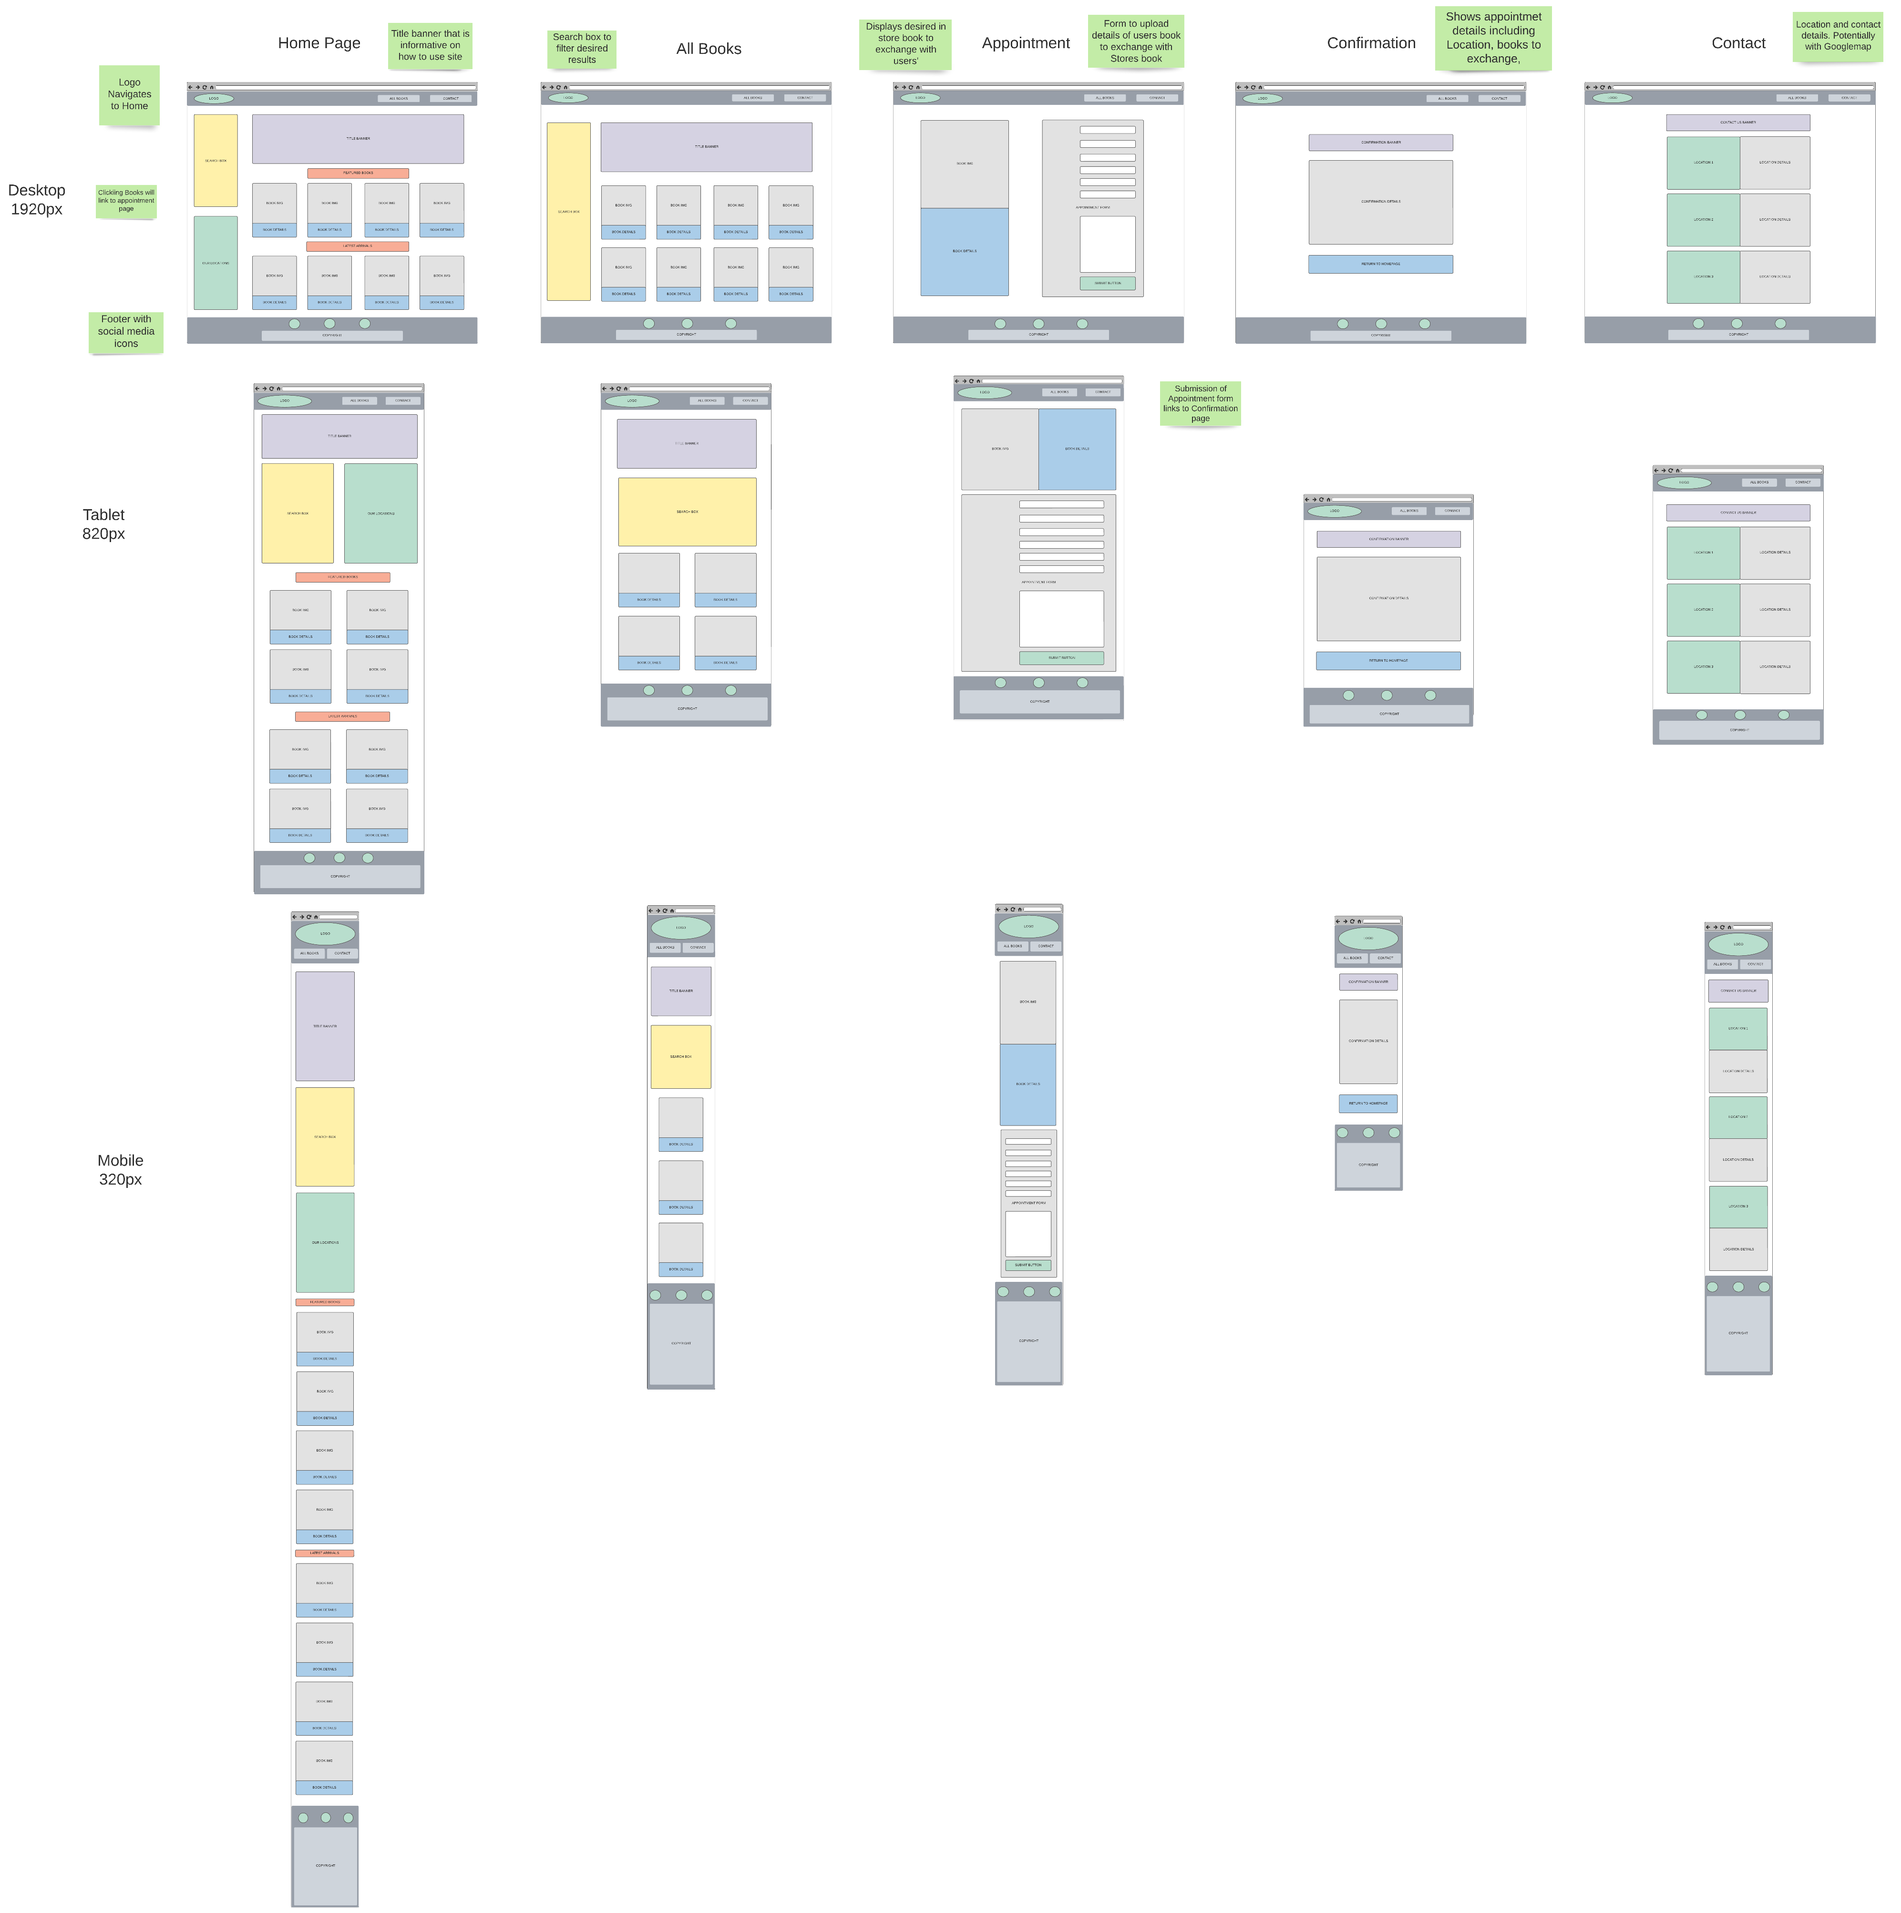
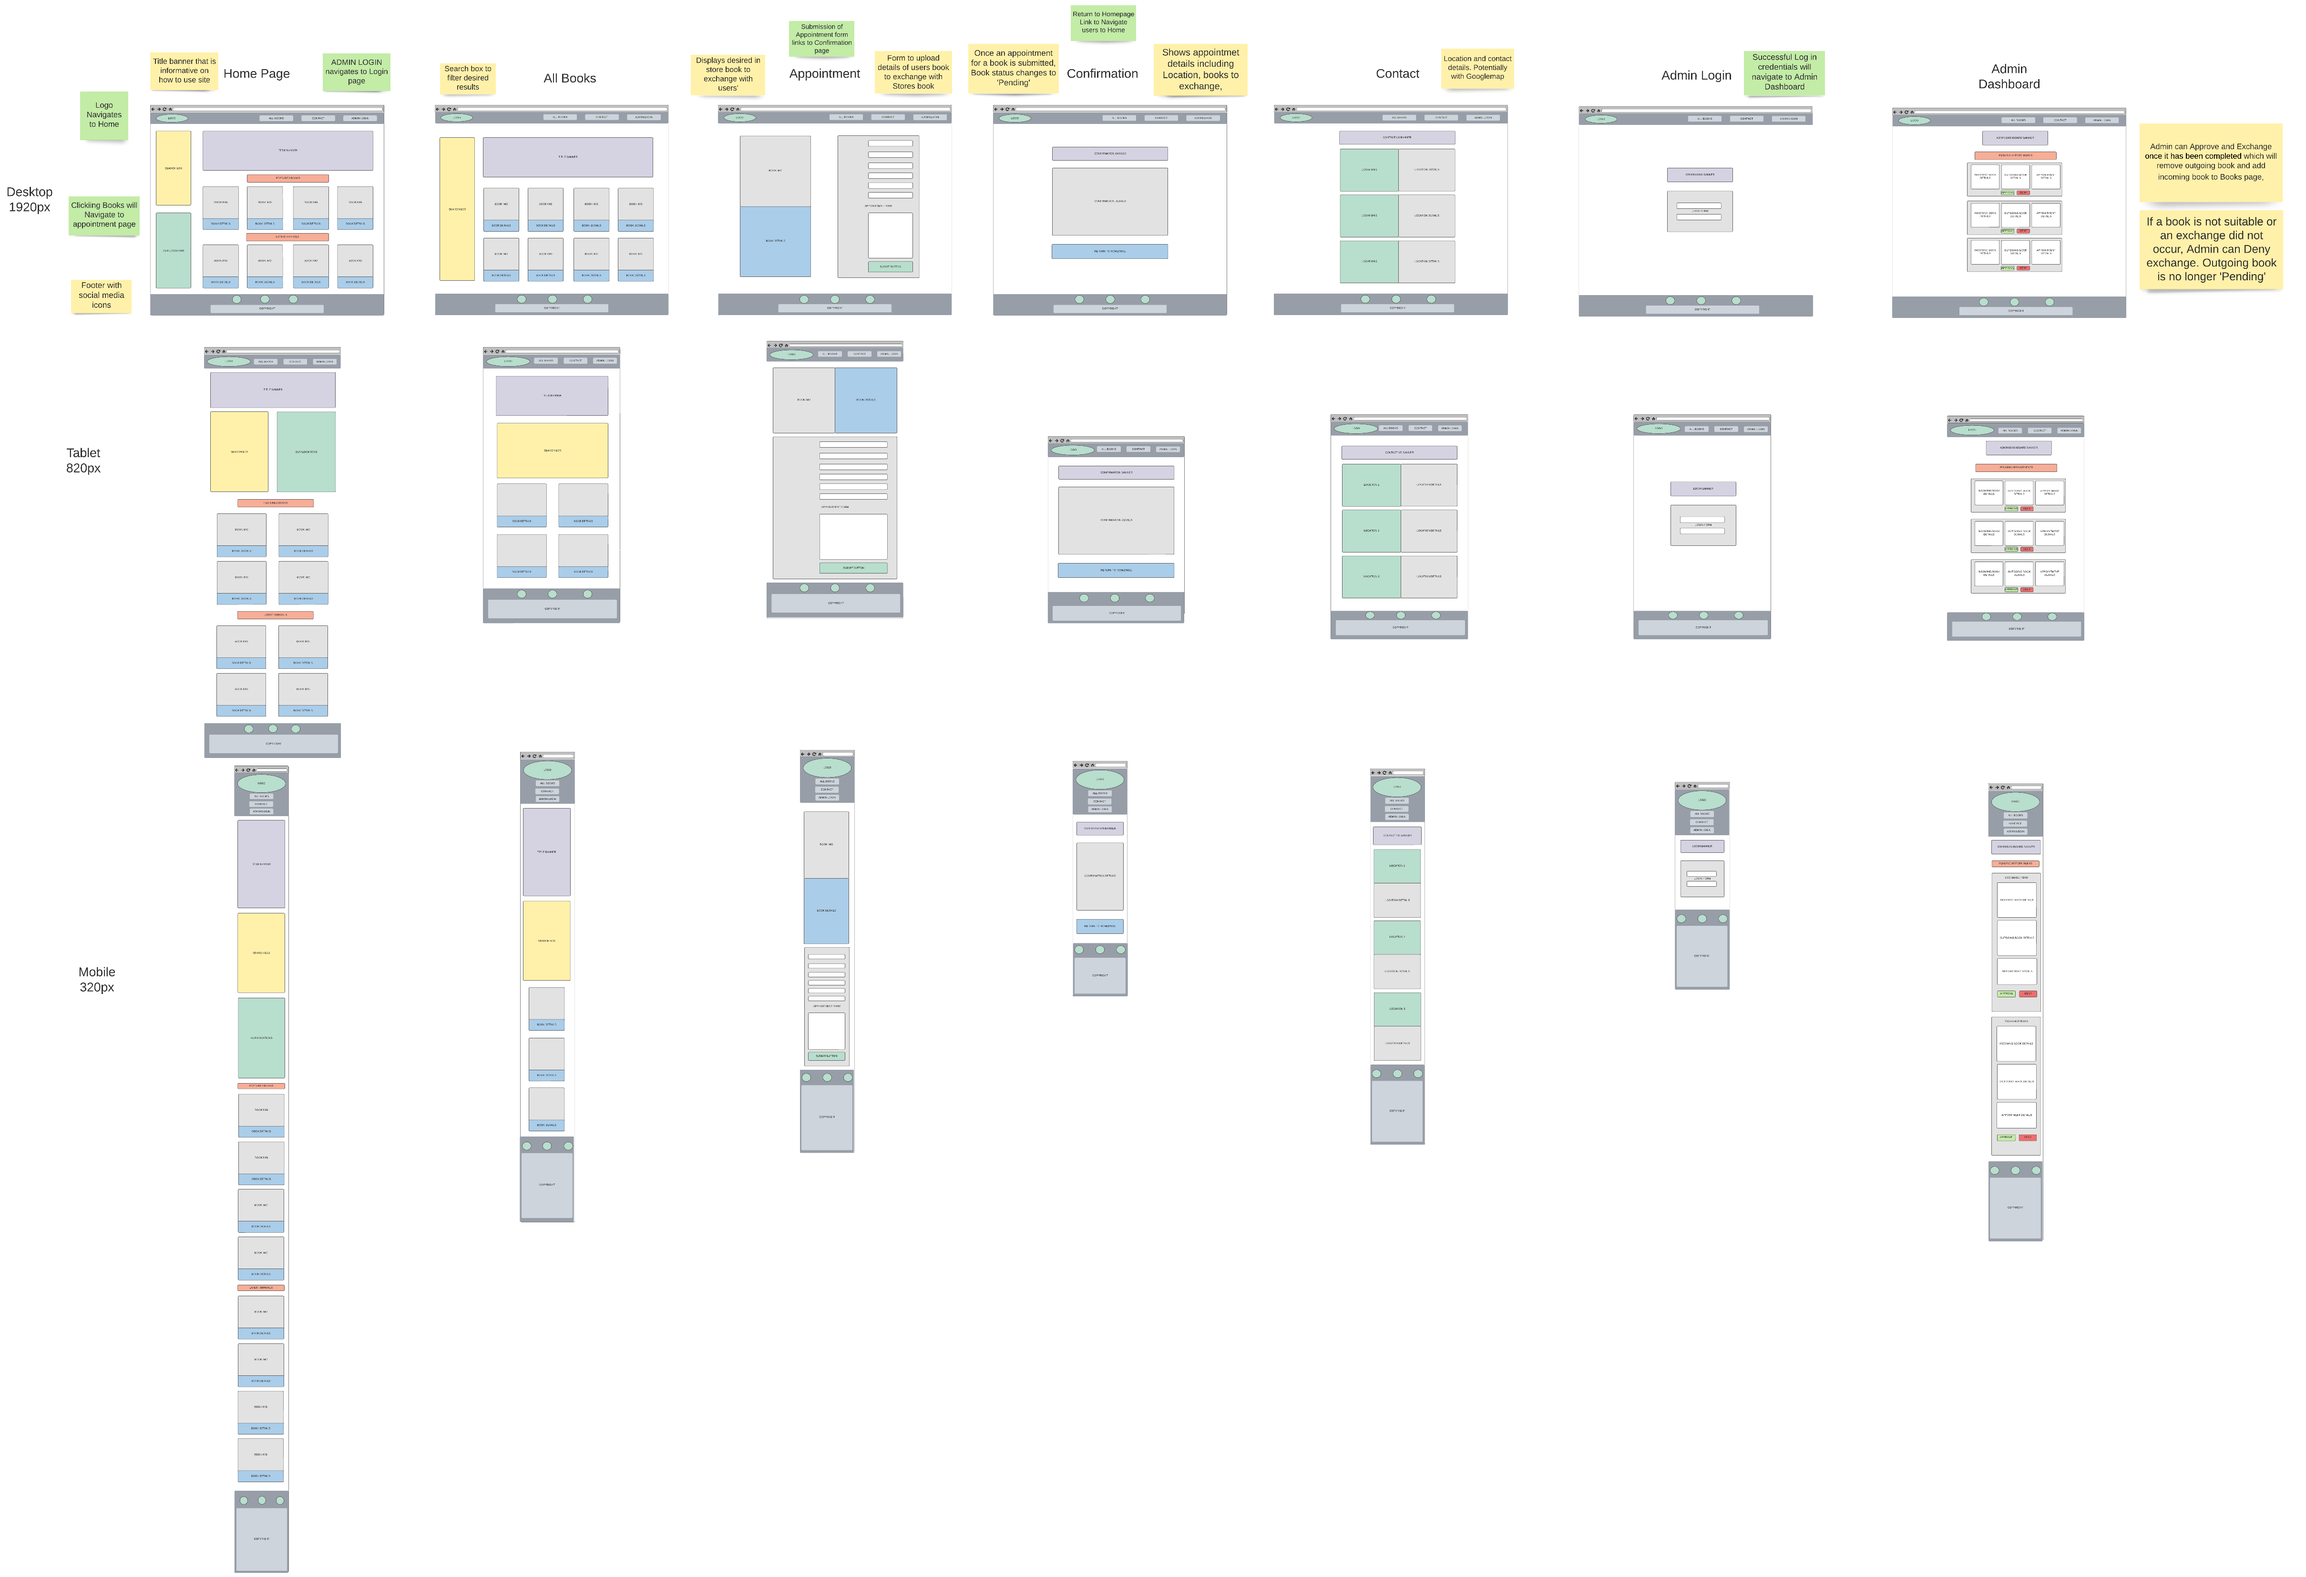
Added Admin Login to wireframes

diff --git a/README.md b/README.md
@@ -97,5 +97,3 @@ Day 2 - Wed 18 Jan
 Day 3 - Thu 19 Jan
 
 ![Trello](docs/Trello%20board/Trello%20-%2018%20Jan%20-%202.png)
-
-Day 4 - Fri 20 Jan
